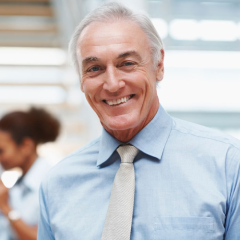
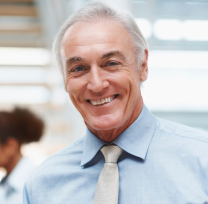
minor change

diff --git a/src/pages/sevicesagentpage/servicesagentpage.jsx b/src/pages/sevicesagentpage/servicesagentpage.jsx
@@ -30,65 +30,68 @@ function ServicesAgentPage() {
           </button>
         </div>
       </div>
+
       <div className="flex  gap-6 p-7">
-        <div className="flex gap-6 justify-between ">
-          <div>
-            <img src={agent} alt="" />
-          </div>
-          {/* FInd Agent */}
-          <div>
-            <div className="flex justify-between">
-              <h4 className="text-lg text-customblack font-normal">
-                Samuel Palmer
-              </h4>
-              {/* star ratings */}
-              <Box sx={{ "& > legend": { mt: 2 } }}>
-                <Rating name="read-only" value={value} readOnly />
-              </Box>
+        <div className="flex-3">
+          <div className="flex gap-6 justify-between p-3  ">
+            <div className="h-full">
+              <img src={agent} alt="" className="h-full" />
             </div>
+            {/* FInd Agent */}
             <div>
-              <p className="font-normal text-sm text-customStreetcolor mb-5">
-                Company Agent at Modern House Real Estate
-              </p>
-            </div>
-            <div className="flex flex-col gap-2">
-              <div className="flex justify-between border-b border-b-customgray3">
-                <h4 className="font-bold text-sm text-customBlackShade1">
-                  Office
-                </h4>
-                <p className="font-normal text-sm text-customNameBlack">
-                  321 456 9865
-                </p>
-              </div>
-              <div className="flex justify-between border-b border-b-customgray3">
-                <h4 className="font-bold text-sm text-customBlackShade1">
-                  Mobile
-                </h4>
-                <p className="font-normal text-sm text-customNameBlack">
-                  321 456 9865
-                </p>
-              </div>
-              <div className="flex justify-between border-b border-b-customgray3 mb-6">
-                <h4 className="font-bold text-sm text-customBlackShade1">
-                  Coverage Location
-                </h4>
-                <p className="font-normal text-sm text-customNameBlack">
-                  Lagos
-                </p>
-              </div>
               <div className="flex justify-between">
-                {/* for icons */}
-                <div>
-                  <WhatsAppIcon
-                    sx={{ fontSize: "15px" }}
-                    className="text-[#0B8200]"
-                  />
-                  <LocalPhoneIcon sx={{ fontSize: "15px" }} />
-                  <MailOutlineIcon sx={{ fontSize: "15px" }} />
-                </div>
-                <p className="text-sm text-customSearchblue font-semibold">
-                  Book Service
+                <h4 className="text-lg text-customblack font-normal">
+                  Samuel Palmer
+                </h4>
+                {/* star ratings */}
+                <Box sx={{ "& > legend": { mt: 2 } }}>
+                  <Rating name="read-only" value={value} readOnly />
+                </Box>
+              </div>
+              <div>
+                <p className="font-normal text-sm text-customStreetcolor mb-5">
+                  Company Agent at Modern House Real Estate
                 </p>
+              </div>
+              <div className="flex flex-col gap-2">
+                <div className="flex justify-between border-b border-b-customgray3">
+                  <h4 className="font-bold text-sm text-customBlackShade1">
+                    Office
+                  </h4>
+                  <p className="font-normal text-sm text-customNameBlack">
+                    321 456 9865
+                  </p>
+                </div>
+                <div className="flex justify-between border-b border-b-customgray3">
+                  <h4 className="font-bold text-sm text-customBlackShade1">
+                    Mobile
+                  </h4>
+                  <p className="font-normal text-sm text-customNameBlack">
+                    321 456 9865
+                  </p>
+                </div>
+                <div className="flex justify-between border-b border-b-customgray3 mb-6">
+                  <h4 className="font-bold text-sm text-customBlackShade1">
+                    Coverage Location
+                  </h4>
+                  <p className="font-normal text-sm text-customNameBlack">
+                    Lagos
+                  </p>
+                </div>
+                <div className="flex justify-between">
+                  {/* for icons */}
+                  <div>
+                    <WhatsAppIcon
+                      sx={{ fontSize: "15px" }}
+                      className="text-[#0B8200]"
+                    />
+                    <LocalPhoneIcon sx={{ fontSize: "15px" }} />
+                    <MailOutlineIcon sx={{ fontSize: "15px" }} />
+                  </div>
+                  <p className="text-sm text-customSearchblue font-semibold">
+                    Book Service
+                  </p>
+                </div>
               </div>
             </div>
           </div>

diff --git a/src/pages/landingpage/components/Propertycard.jsx b/src/pages/landingpage/components/Propertycard.jsx
@@ -16,12 +16,12 @@ function Propertycard() {
     <div className=" px-0 bg-white relative mx-auto md:mx-4 flex flex-col lg:mx-4 hover:bg-addpropertybg max-w-[400px] rounde-md shadow-[0px_4px_4px_0px_rgba(0,0,0,0.1)]">
       <div
         className="max-h-[300px] max-w-[400px]"
-        style={{
-          backgroundImage: `url(${require("../../../assets/chair_table.png")})`,
-          backgroundSize: "cover",
-          backgroundPosition: "center",
-          backgroundRepeat: "no-repeat",
-        }}
+        // style={{
+        //   backgroundImage: `url(${require("../../../assets/chair_table.png")})`,
+        //   backgroundSize: "cover",
+        //   backgroundPosition: "center",
+        //   backgroundRepeat: "no-repeat",
+        // }}
       >
         <p className="w-auto text-[70%] bg-black bg-opacity-50 text-white absolute inline px-2 py-1 top-4 left-[70%]">
           FOR RENT

diff --git a/src/pages/affordabilitycalcuator/AffordabilityCalculator.jsx b/src/pages/affordabilitycalcuator/AffordabilityCalculator.jsx
@@ -43,7 +43,7 @@ function AffordabilityCalculator() {
         {/* <div className="hidden">
           <div className="flex flex-col gap-2">
             <div>
-              <img src="" alt="" />
+              <img src="" alt="" />s
             </div>
             <div>
               <h4 className="font-bold text-sm text-customblack2">
@@ -52,7 +52,7 @@ function AffordabilityCalculator() {
             </div>
           </div>
         </div> */}
-        <div className="flex flex-col lg:flex-row lg:justify-center">
+        <div className="flex flex-col lg:flex-row xl:justify-center">
           <div className="flex flex-col lg:flex-row gap-6">
             <div className="flex flex-col lg:w-[475px]">
               <div className="flex flex-col gap-2">
